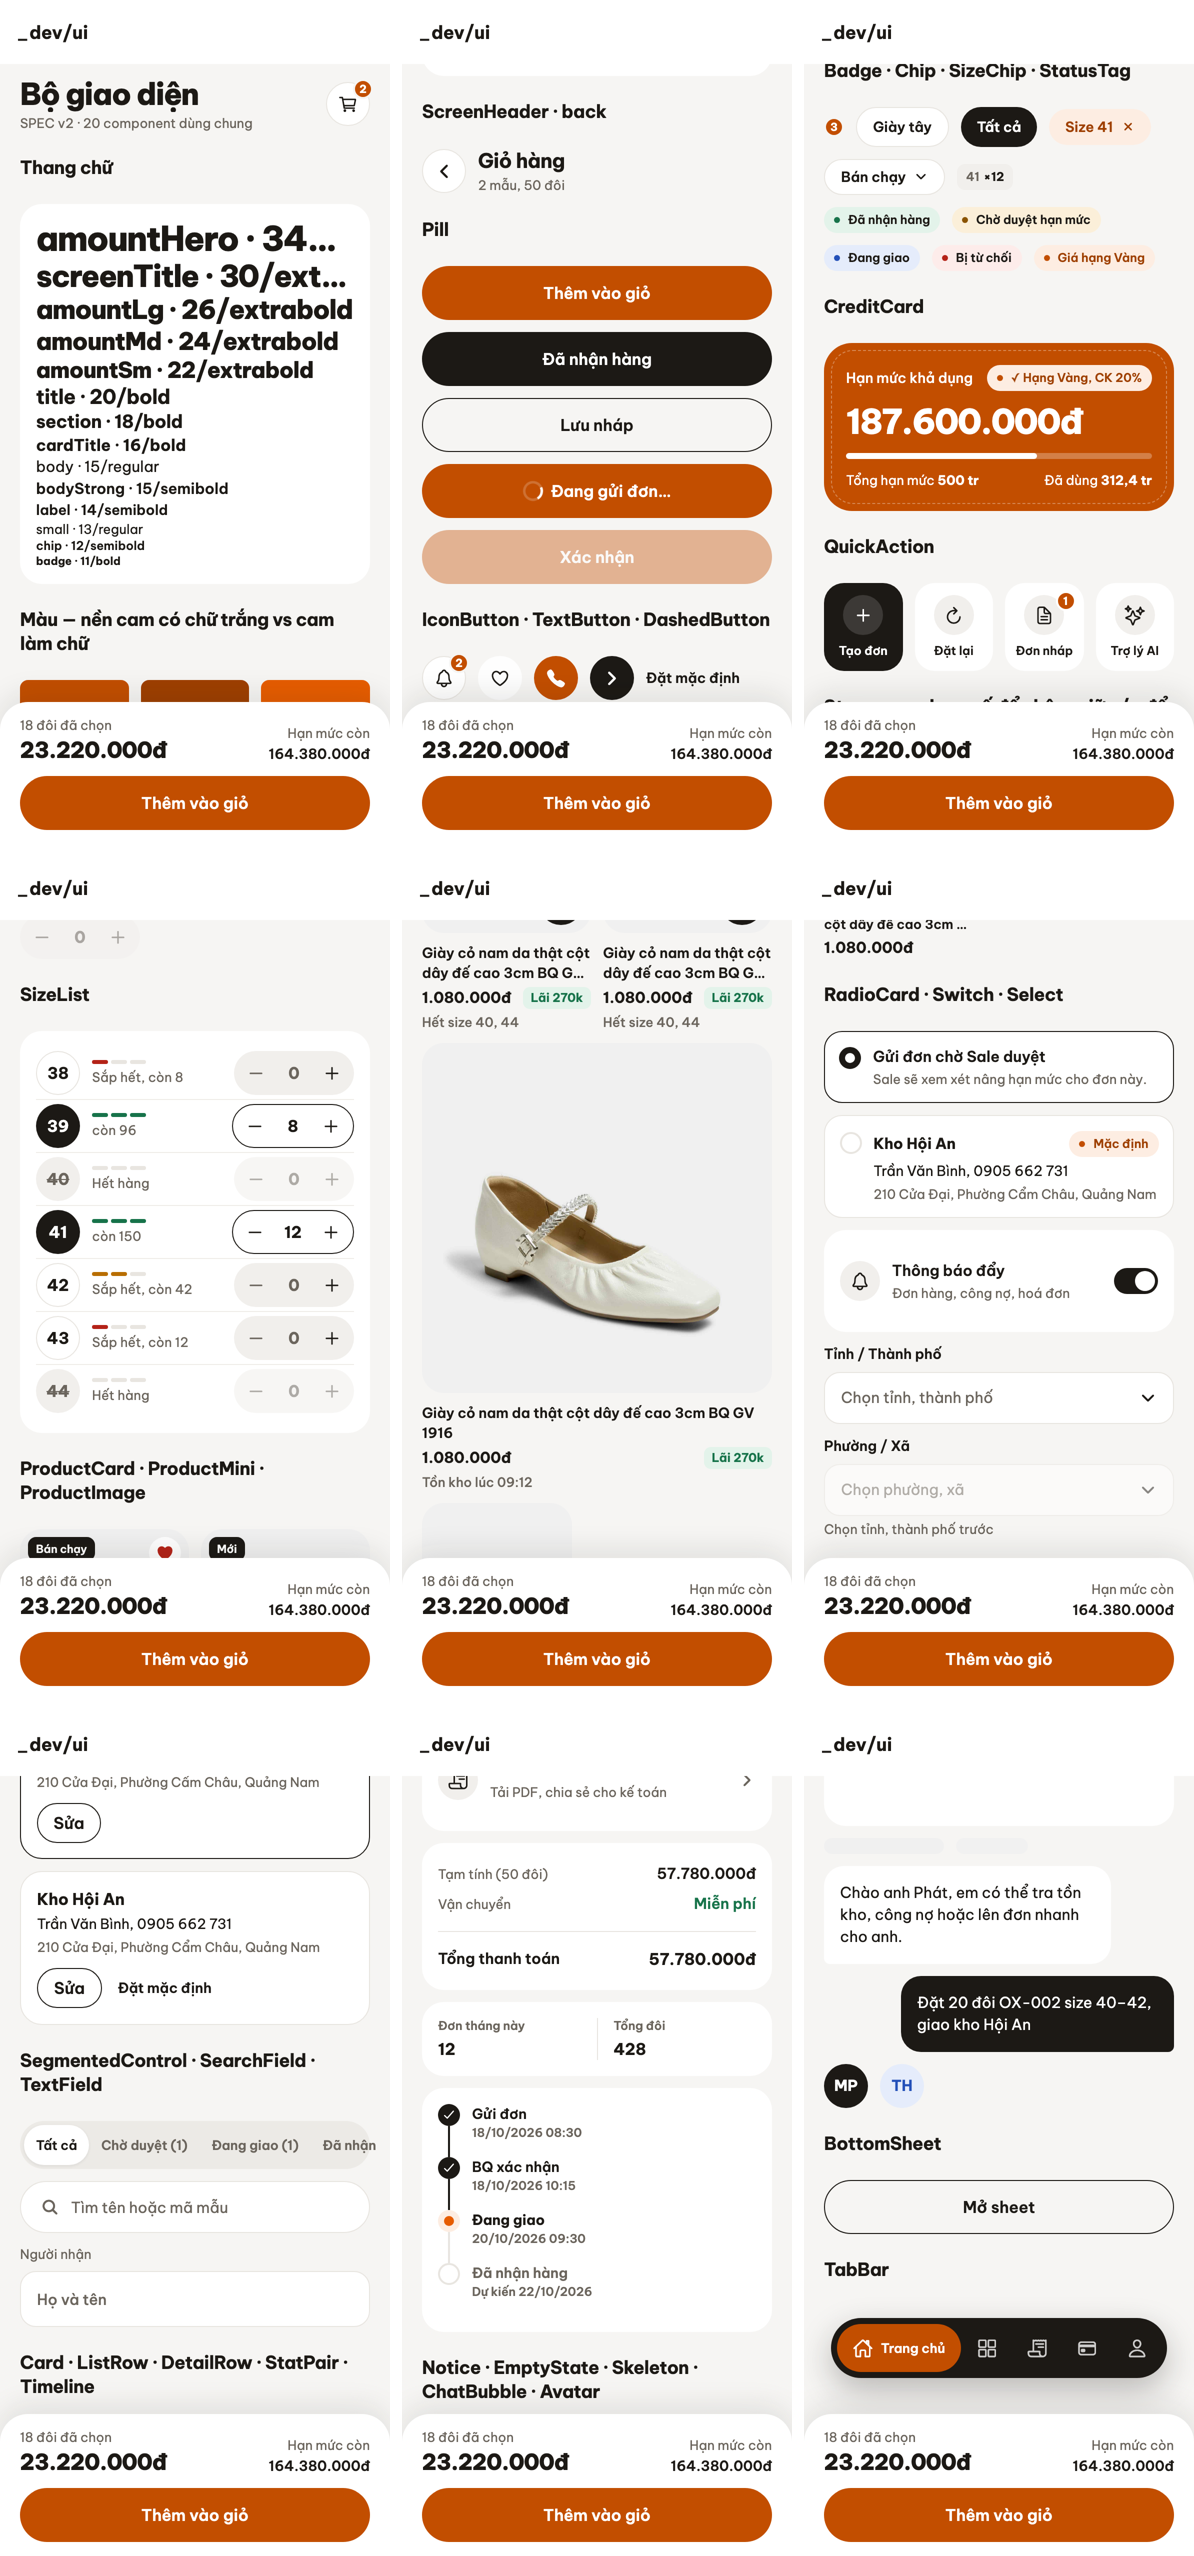
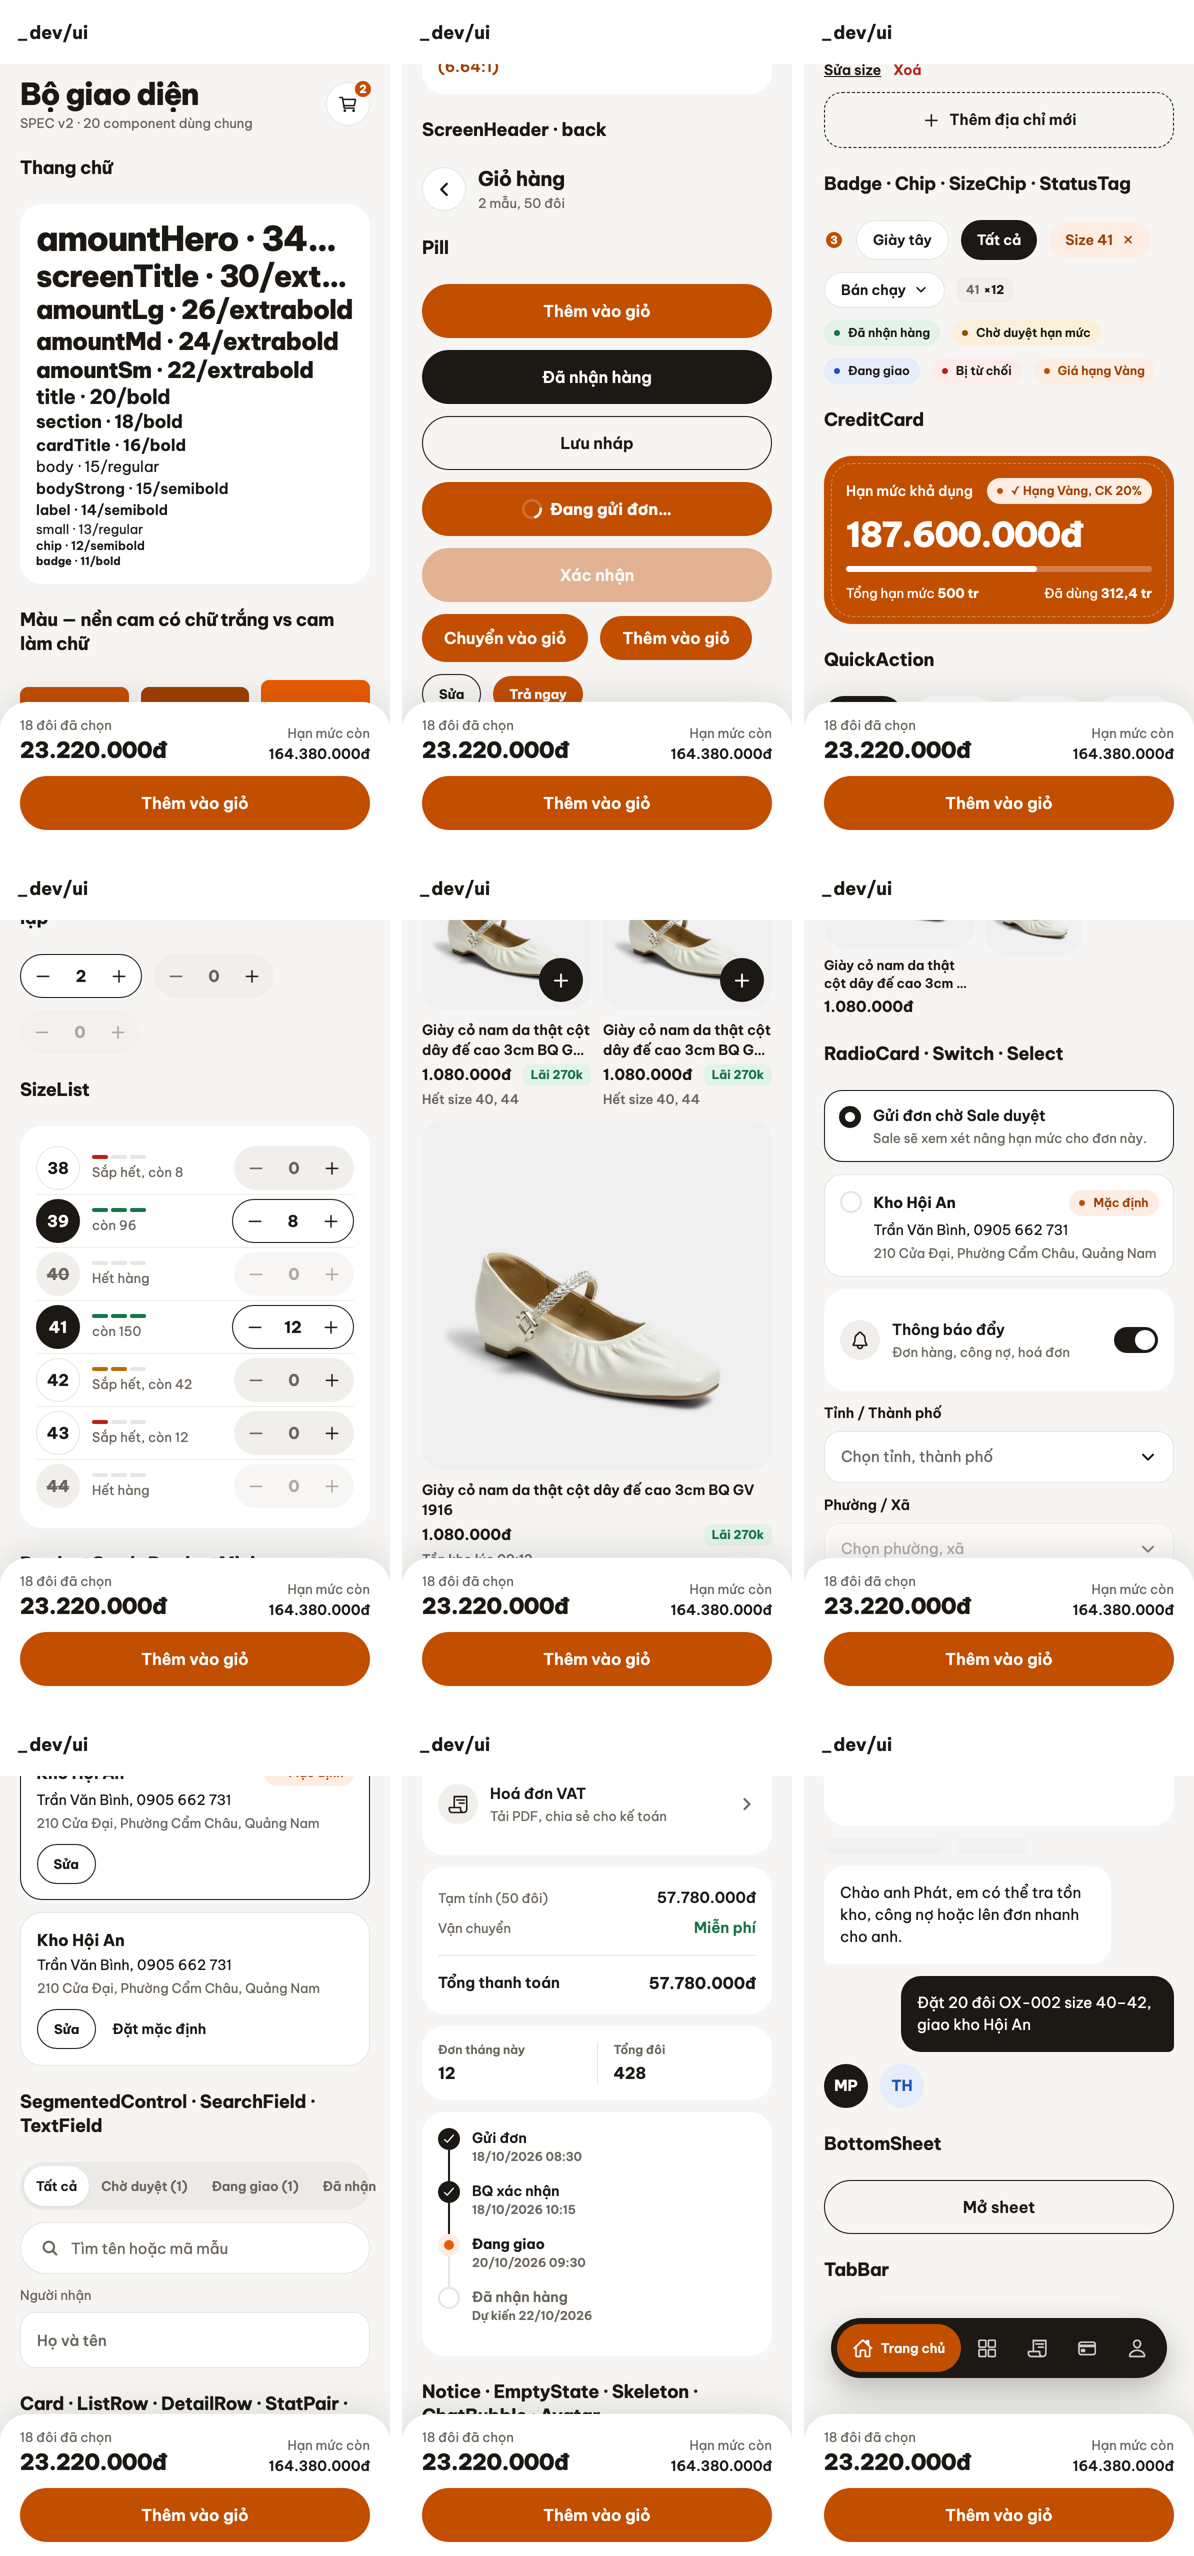
fix(mobile): Phase 1 — vùng chạm 44 và nhãn trợ năng còn thiếu
Rà lại sau khi chụp ảnh, ba chỗ không đạt ràng buộc của chính SPEC:

- Toast: nút hành động ("Xem giỏ") thiếu accessibilityLabel -> trình đọc màn
  hình không đọc được nút đó là gì.
- Chip biến thể filter/applied cao 36, Pill cỡ nhỏ cao 36-40: SPEC vừa cho các
  cỡ đó vừa đòi vùng chạm tối thiểu 44. Hai yêu cầu chỉ sống chung được bằng
  hitSlop, nên nới ở component.
- Pill thêm prop `size` (54/48/44/40/36) thay cho việc ghi đè height qua
  `style`: ghi đè kiểu đó thì component không biết mình thấp hơn 44 để nới
  vùng chạm. AddressCard chuyển sang dùng size={40}.

Thêm: ô màu trong showcase chuyển nhãn xuống dưới ô, màu ink. Đặt chữ trắng
11px đè lên ô `flame` thì chính trang trưng bày vi phạm cái nó đang mô tả.

diff --git a/apps/mobile/src/components/ui/Pill.tsx b/apps/mobile/src/components/ui/Pill.tsx
@@ -1,6 +1,6 @@
 import { useState } from "react";
 import { ActivityIndicator, Pressable, StyleSheet, type ViewStyle } from "react-native";
-import { color, radius, space } from "@/theme";
+import { color, hitSlopFor, radius, space } from "@/theme";
 import { T } from "./T";
 
 export type PillTone = "brand" | "ink" | "outline" | "paper";
@@ -11,6 +11,15 @@ export interface PillProps {
   /** `brand` hành động chính · `ink` phụ quan trọng · `outline` phụ thường ·
    *  `paper` khi nút nằm trên nền TỐI (splash). */
   tone?: PillTone;
+  /**
+   * Chiều cao. SPEC dùng 5 cỡ: 54 (nút chính ở dock), 48 (cặp nút trong card),
+   * 44 (cặp nút trong bong bóng AI), 40 ("Sửa" ở Sổ địa chỉ), 36 ("Trả ngay",
+   * "Thanh toán").
+   *
+   * Khai ở đây chứ KHÔNG ghi đè `height` qua `style`: cỡ dưới 44 phải được nới
+   * vùng chạm bằng hitSlop, mà `style` thì component không đọc được để làm việc đó.
+   */
+  size?: 54 | 48 | 44 | 40 | 36;
   disabled?: boolean;
   /** Đang xử lý — hiện vòng xoay thay nhãn và chặn bấm tiếp. */
   loading?: boolean;
@@ -33,7 +42,7 @@ export interface PillProps {
  * Khác {@link IconButton}: Pill luôn có nhãn chữ; IconButton chỉ có icon.
  */
 export function Pill({
-  label, onPress, tone = "brand", disabled, loading, loadingLabel, leading,
+  label, onPress, tone = "brand", size = 54, disabled, loading, loadingLabel, leading,
   accessibilityLabel, style,
 }: PillProps) {
   const [down, setDown] = useState(false);
@@ -56,8 +65,10 @@ export function Pill({
       accessibilityRole="button"
       accessibilityLabel={accessibilityLabel ?? label}
       accessibilityState={{ disabled: blocked, busy: !!loading }}
+      hitSlop={size < 44 ? hitSlopFor(size) : undefined}
       style={[
         styles.base,
+        { height: size, paddingHorizontal: size <= 40 ? space.x4 : 22 },
         { backgroundColor: bg },
         tone === "outline" && styles.outline,
         tone === "paper" && styles.paperBorder,
@@ -72,13 +83,20 @@ export function Pill({
         <>
           <ActivityIndicator color={textTone === "white" ? color.white : color.ink} />
           {loadingLabel ? (
-            <T variant="cardTitle" weight="semibold" tone={textTone}>{loadingLabel}</T>
+            <T variant={size <= 40 ? "small" : "cardTitle"} weight="bold" tone={textTone}>{loadingLabel}</T>
           ) : null}
         </>
       ) : (
         <>
           {leading}
-          <T variant="cardTitle" weight="semibold" tone={textTone}>{label}</T>
+          <T
+            variant={size <= 40 ? "small" : "cardTitle"}
+            weight={size <= 40 ? "bold" : "semibold"}
+            tone={textTone}
+            numberOfLines={1}
+          >
+            {label}
+          </T>
         </>
       )}
     </Pressable>
@@ -87,11 +105,10 @@ export function Pill({
 
 const styles = StyleSheet.create({
   base: {
-    height: 54, borderRadius: radius.pill, flexDirection: "row",
+    borderRadius: radius.pill, flexDirection: "row",
     alignItems: "center", justifyContent: "center",
     // SPEC: icon 20 cách chữ 8.
     gap: space.x2,
-    paddingHorizontal: 22,
   },
   /** SPEC: viền 1.5 INK (không phải `line`) — đây là nút, không phải ô nhập. */
   outline: { borderWidth: 1.5, borderColor: color.ink },

diff --git a/apps/mobile/app/_dev/ui.tsx b/apps/mobile/app/_dev/ui.tsx
@@ -80,9 +80,9 @@ export default function UiShowcase() {
 
         <Group title="Màu — nền cam có chữ trắng vs cam làm chữ">
           <View style={styles.row}>
-            <Swatch bg={color.brand} label="brand" fg={color.white} note="4.79:1" />
-            <Swatch bg={color.brandDeep} label="brandDeep" fg={color.white} note="6.64:1" />
-            <Swatch bg={color.flame} label="flame" fg={color.white} note="3.56:1 — chữ lớn" />
+            <Swatch bg={color.brand} label="brand" note="trắng 4.79:1" />
+            <Swatch bg={color.brandDeep} label="brandDeep" note="trắng 6.64:1" />
+            <Swatch bg={color.flame} label="flame" note="trắng 3.56:1 — chỉ chữ lớn" />
           </View>
           <Card>
             <T variant="bodyStrong" tone="brand">Chữ cam trên nền sáng dùng textBrand (6.64:1)</T>
@@ -99,6 +99,12 @@ export default function UiShowcase() {
           <Pill label="Lưu nháp" tone="outline" />
           <Pill label="Đang gửi đơn…" loading loadingLabel="Đang gửi đơn…" />
           <Pill label="Xác nhận" disabled />
+          <View style={styles.row}>
+            <Pill label="Chuyển vào giỏ" size={48} />
+            <Pill label="Thêm vào giỏ" size={44} />
+            <Pill label="Sửa" tone="outline" size={40} />
+            <Pill label="Trả ngay" size={36} />
+          </View>
         </Group>
 
         <Group title="IconButton · TextButton · DashedButton">
@@ -329,11 +335,18 @@ function Group({ title, children }: { title: string; children: React.ReactNode }
   );
 }
 
-function Swatch({ bg, label, fg, note }: { bg: string; label: string; fg: string; note: string }) {
+/**
+ * Ô màu: nhãn nằm DƯỚI ô, màu ink.
+ *
+ * Đặt nhãn trắng đè lên ô thì chính trang trưng bày vi phạm cái nó đang mô tả —
+ * chữ 11px trắng trên `flame` là 3.56:1.
+ */
+function Swatch({ bg, label, note }: { bg: string; label: string; note: string }) {
   return (
-    <View style={[styles.swatch, { backgroundColor: bg }]}>
-      <Num variant="chip" weight="bold" style={{ color: fg }}>{label}</Num>
-      <Num variant="badge" style={{ color: fg }}>{note}</Num>
+    <View style={styles.swatchWrap}>
+      <View style={[styles.swatch, { backgroundColor: bg }]} />
+      <T variant="chip" weight="bold">{label}</T>
+      <T variant="badge" tone="muted">{note}</T>
     </View>
   );
 }
@@ -348,7 +361,8 @@ const styles = StyleSheet.create({
   thumb: { width: 96 },
   rule: { marginVertical: space.x3 },
   flex: { flex: 1 },
-  swatch: { flex: 1, minWidth: 96, height: 72, borderRadius: radius.chip, padding: space.x2, justifyContent: "flex-end" },
+  swatchWrap: { flex: 1, minWidth: 96, gap: space.x1 },
+  swatch: { height: 56, borderRadius: radius.chip },
   // TabBar tự neo xuống đáy màn; bọc trong khối cao 96 để xem được trong trang này.
   tabDemo: { height: 96 },
 });

diff --git a/apps/mobile/src/components/ui/Toast.tsx b/apps/mobile/src/components/ui/Toast.tsx
@@ -2,7 +2,7 @@ import { useEffect, useMemo } from "react";
 import { Animated, Easing, Pressable, StyleSheet, View } from "react-native";
 import { useSafeAreaInsets } from "react-native-safe-area-context";
 import { Ionicons } from "@expo/vector-icons";
-import { color, radius, shadow, space } from "@/theme";
+import { color, hitSlopFor, radius, shadow, space } from "@/theme";
 import { T } from "./T";
 
 export interface ToastProps {
@@ -57,7 +57,12 @@ export function Toast({
         <Ionicons name="checkmark-circle" size={18} color={color.ok} />
         <T variant="small" tone="white" style={styles.text}>{message}</T>
         {actionLabel ? (
-          <Pressable onPress={onActionPress} hitSlop={10} accessibilityRole="button">
+          <Pressable
+            onPress={onActionPress}
+            hitSlop={hitSlopFor(20)}
+            accessibilityRole="button"
+            accessibilityLabel={actionLabel}
+          >
             <T variant="small" weight="bold" tone="white">{actionLabel}</T>
           </Pressable>
         ) : null}

diff --git a/apps/mobile/src/components/ui/AddressCard.tsx b/apps/mobile/src/components/ui/AddressCard.tsx
@@ -78,7 +78,7 @@ export function AddressCard({
       {body}
       <View style={styles.actions}>
         {onEdit ? (
-          <Pill label="Sửa" tone="outline" onPress={onEdit} style={styles.editBtn} />
+          <Pill label="Sửa" tone="outline" size={40} onPress={onEdit} />
         ) : null}
         {!address.isDefault && onSetDefault ? (
           <TextButton label="Đặt mặc định" onPress={onSetDefault} />
@@ -108,8 +108,6 @@ const styles = StyleSheet.create({
   head: { flexDirection: "row", alignItems: "center", gap: space.x2 },
   name: { flex: 1 },
   actions: { flexDirection: "row", alignItems: "center", gap: space.x4, marginTop: space.x2 },
-  // Nút "Sửa" cao 40 theo SPEC §3.23, thấp hơn Pill mặc định (54).
-  editBtn: { height: 40, paddingHorizontal: space.x4 },
   pin: {
     width: 40, height: 40, borderRadius: radius.pill, backgroundColor: color.subtle,
     alignItems: "center", justifyContent: "center",

diff --git a/apps/mobile/src/components/ui/Chip.tsx b/apps/mobile/src/components/ui/Chip.tsx
@@ -44,6 +44,9 @@ export function Chip({
       disabled={!onPress}
       onPressIn={() => setDown(true)}
       onPressOut={() => setDown(false)}
+      // SPEC cho chip lọc cao 36 nhưng cũng đòi vùng chạm tối thiểu 44 —
+      // hai yêu cầu đó chỉ sống chung được bằng hitSlop.
+      hitSlop={variant === "category" ? undefined : hitSlopFor(36)}
       accessibilityRole="button"
       accessibilityLabel={accessibilityLabel ?? label}
       accessibilityState={{ selected: !!selected }}

diff --git a/apps/mobile/src/components/ui/SearchField.tsx b/apps/mobile/src/components/ui/SearchField.tsx
@@ -54,5 +54,7 @@ const styles = StyleSheet.create({
     fontSize: textStyle.body.fontSize,
     color: color.ink,
   },
+  // Thu còn 36 cho vừa ô cao 48; `IconButton` đã nới vùng chạm về 44 bằng
+  // hitSlop nên phần hụt 8px vẫn bấm được.
   clear: { width: 36, height: 36 },
 });
